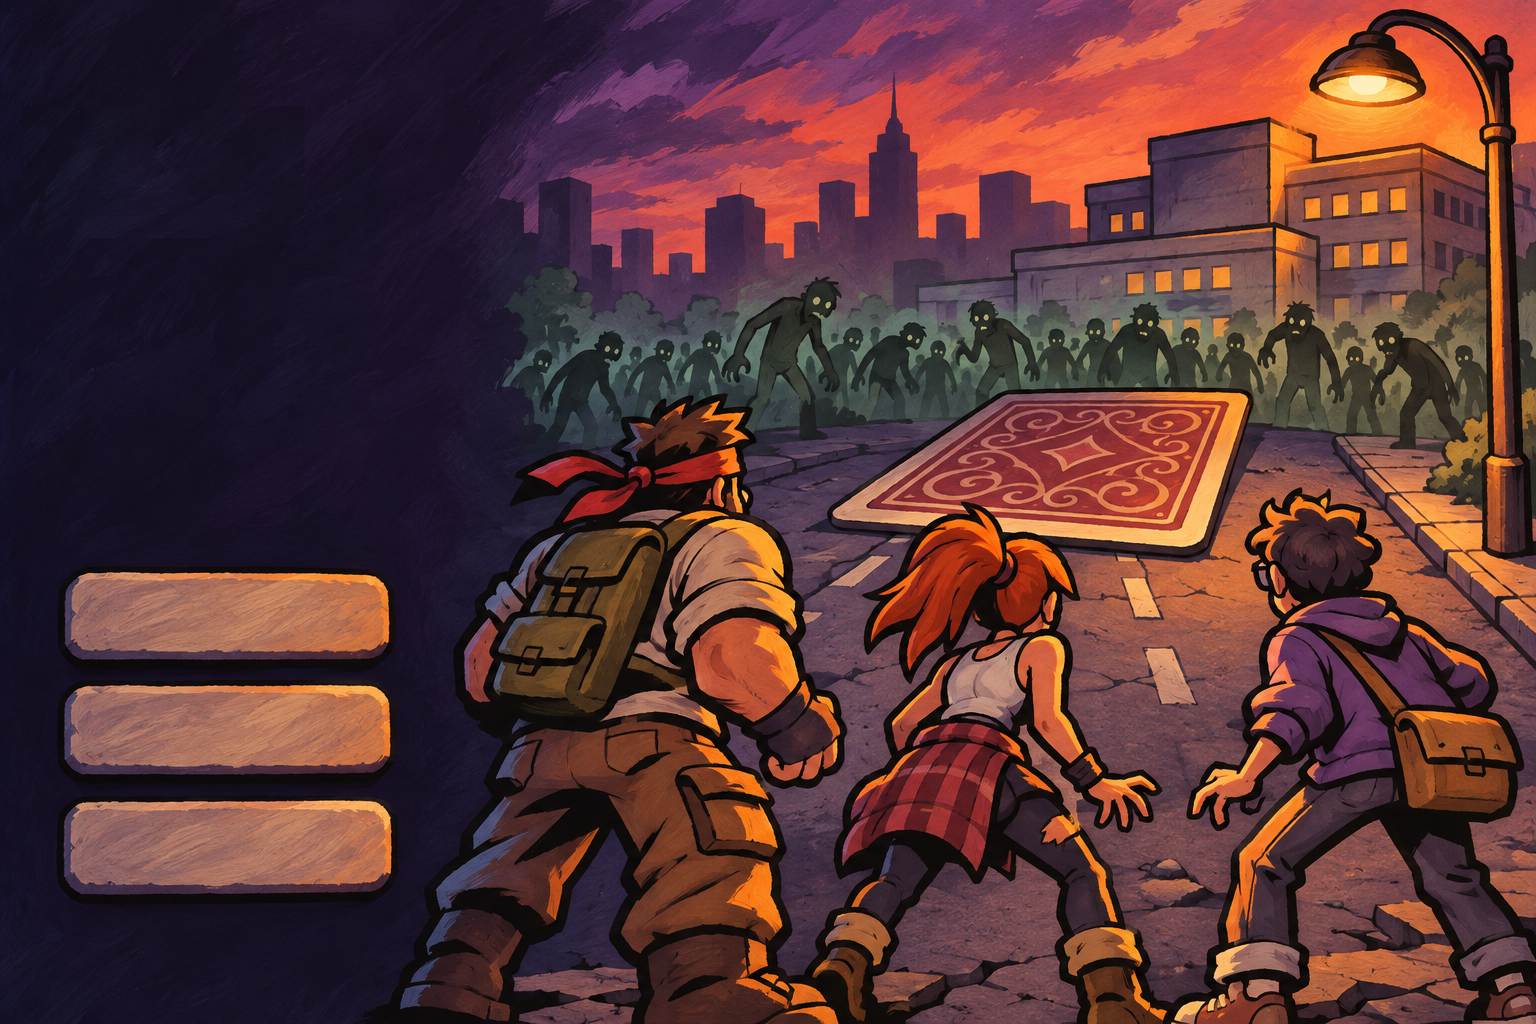
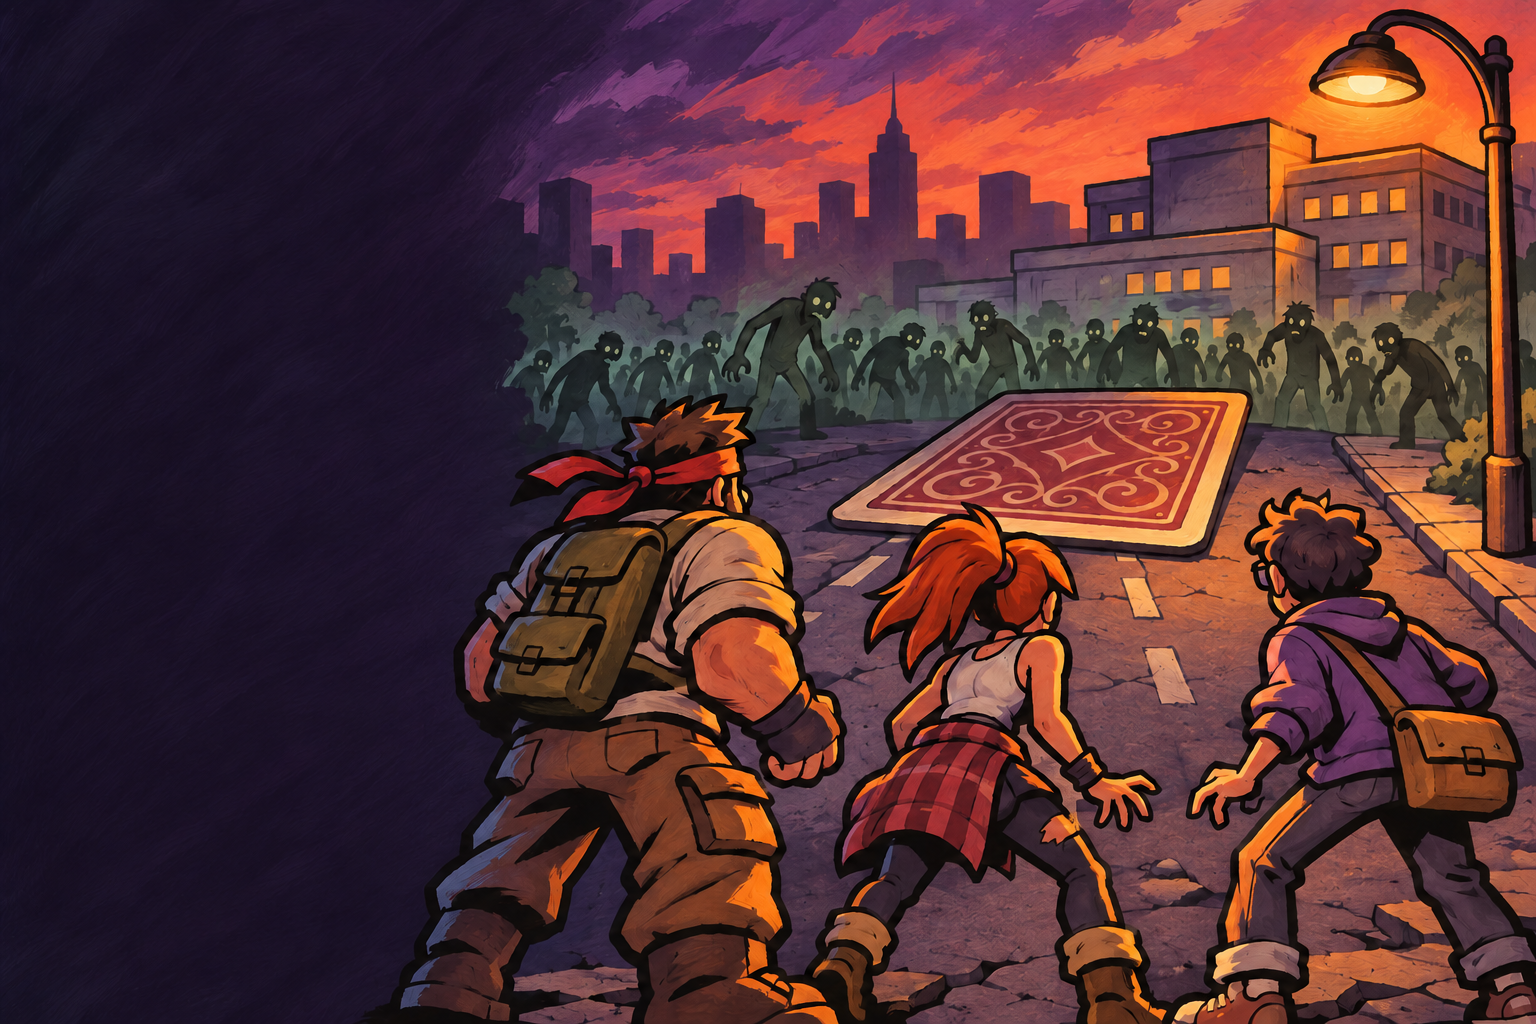
art(deaddraw): add batch 6 transparent patches and clean title background

diff --git a/projects/deaddraw/documentation/art/chatgpt/images/art-pack-1/README.md b/projects/deaddraw/documentation/art/chatgpt/images/art-pack-1/README.md
@@ -2,4 +2,4 @@
 
 Full-size PNG originals from [dd-art-pack-1-prompts.md](../../dd-art-pack-1-prompts.md), preserving requested filenames and sizes. Transparent patches and icons use real alpha.
 
-58 of 77 images generated. All present files passed PNG integrity, requested dimension, and applicable alpha-channel checks. See [manifest.json](manifest.json) for batches, status and SHA-256 hashes. These are originals for art review; no game imports or crops have been changed.
+72 of 77 images generated. All present files passed PNG integrity, requested dimension, and applicable alpha-channel checks. See [manifest.json](manifest.json) for batches, status and SHA-256 hashes. These are originals for art review; no game imports or crops have been changed.
